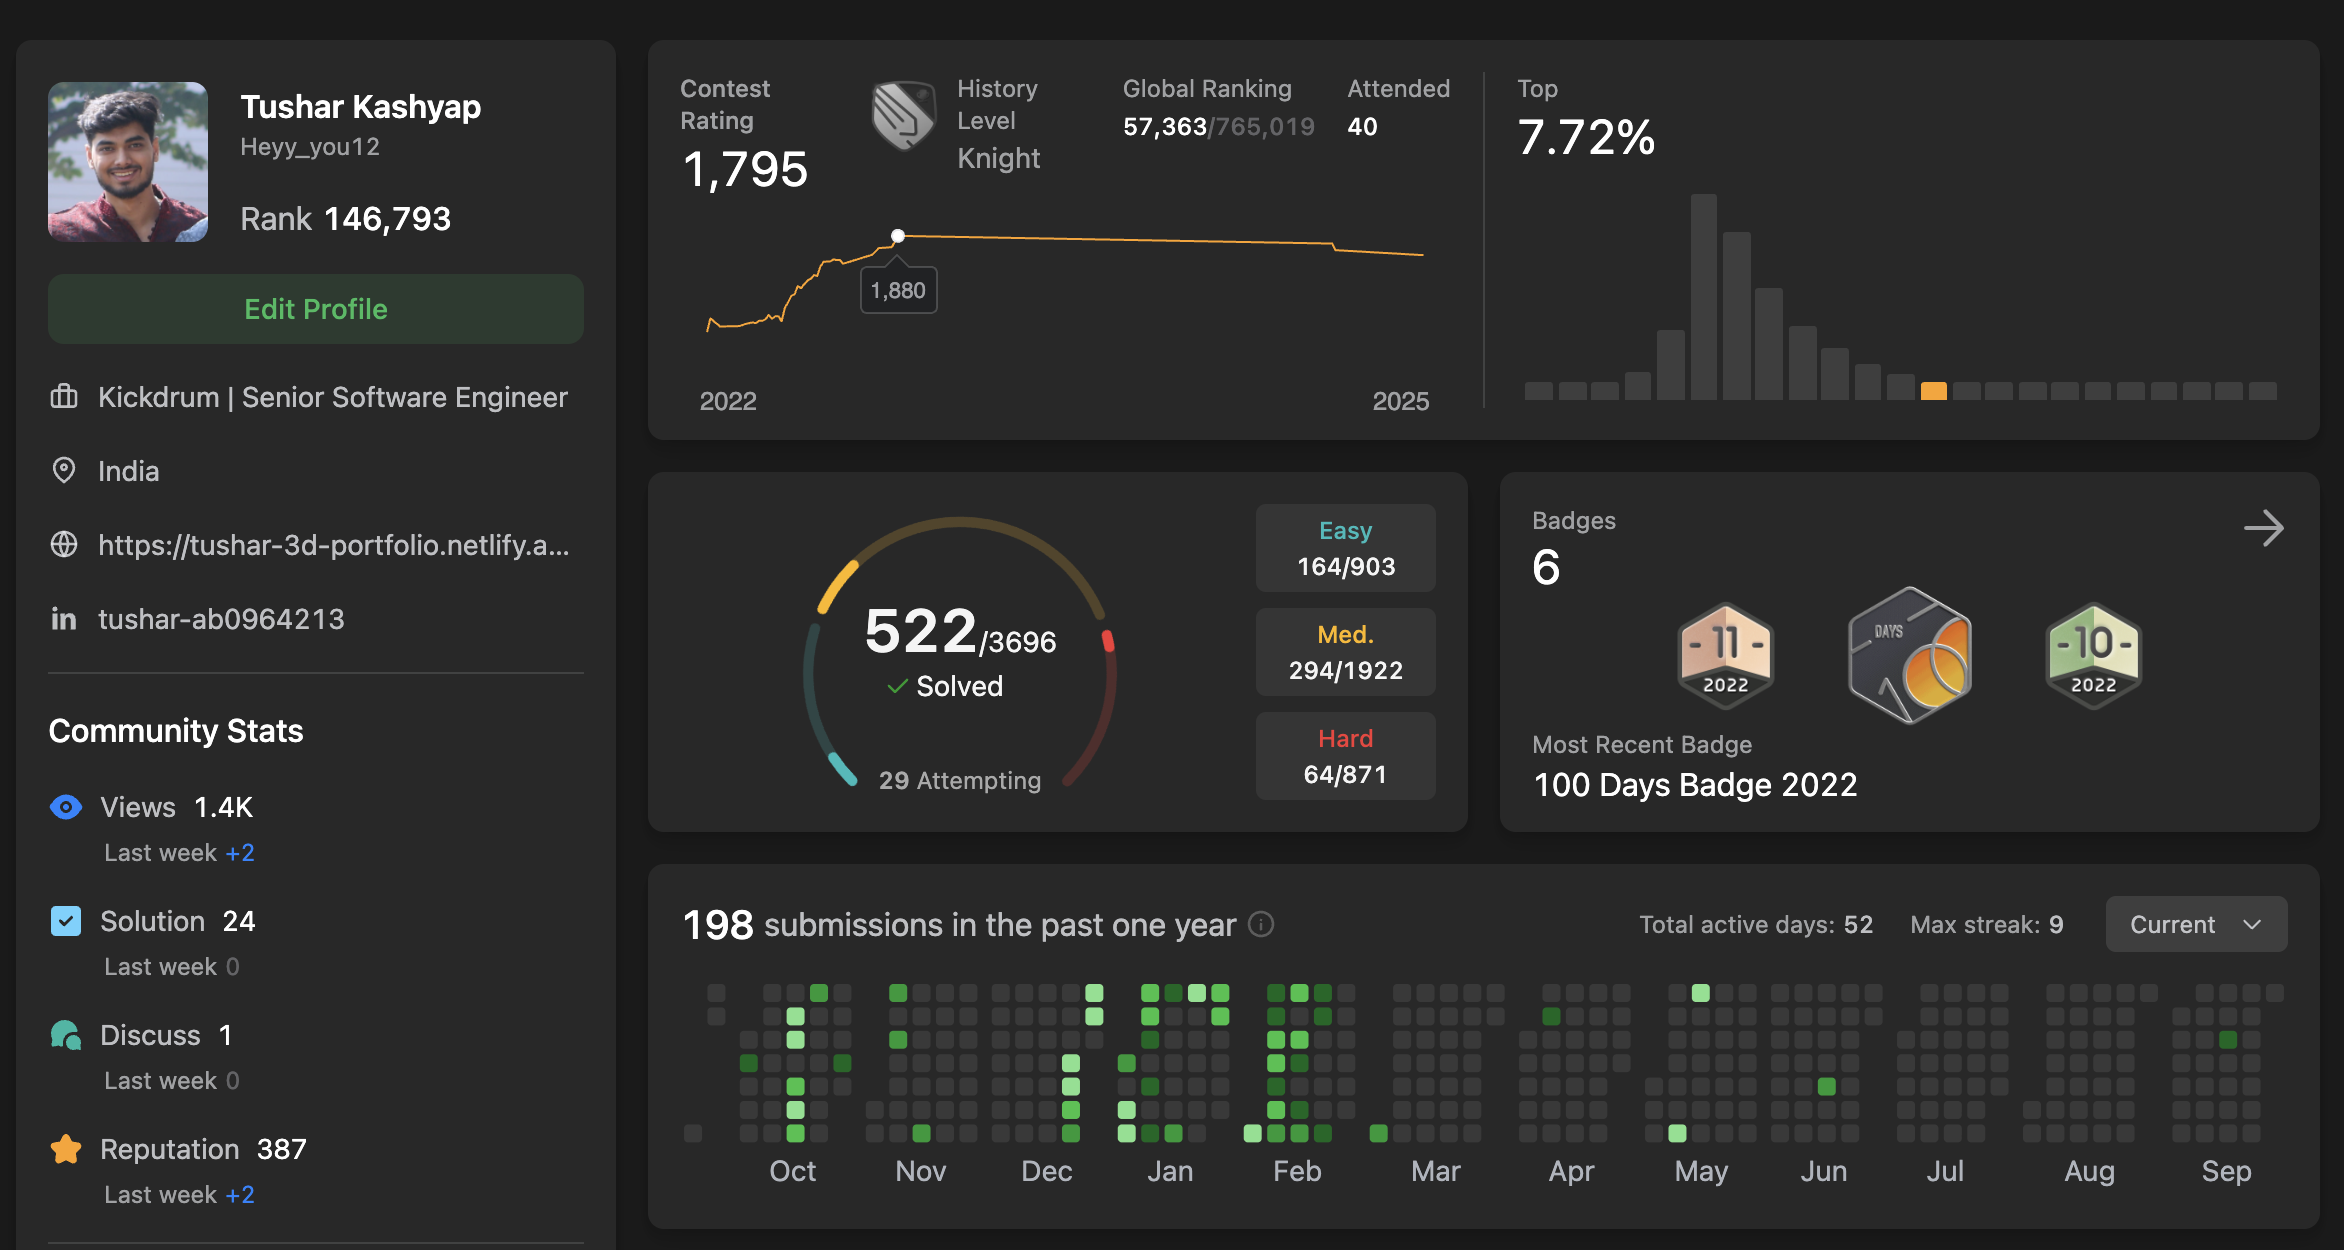
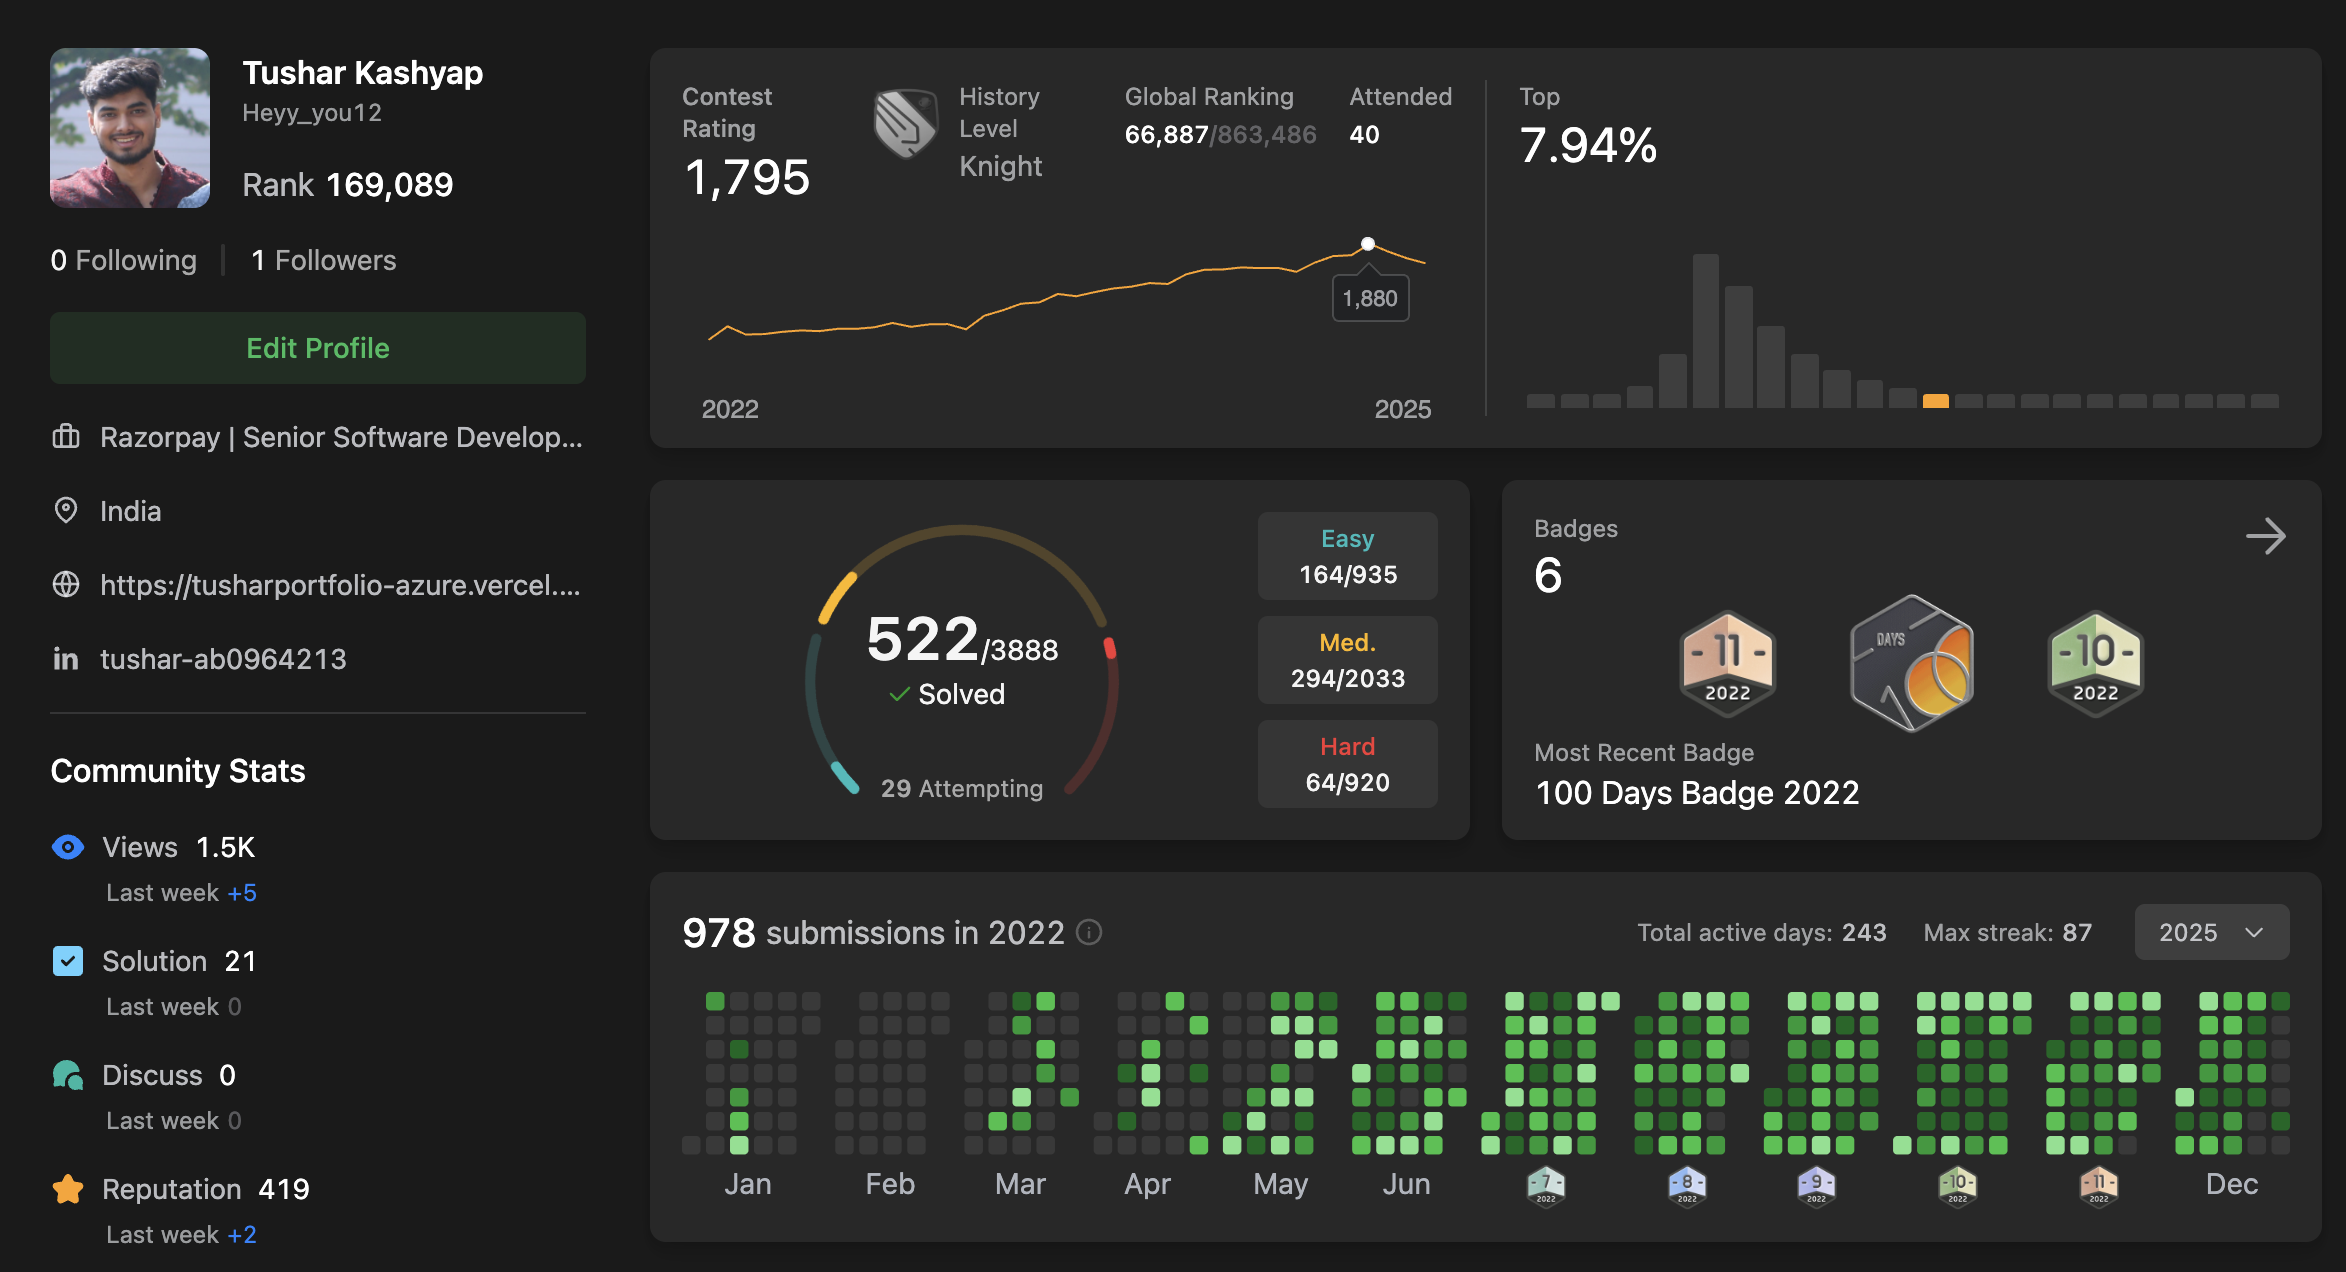
feat: add leetcode image reveal on hover on About section

diff --git a/src/components/About.jsx b/src/components/About.jsx
@@ -6,10 +6,11 @@ import leetcodeBg from '../images/leetcode_about_page_bg.png';
 
 const About = () => {
   const revealImgRef = useRef(null);
+  const [onTerminal, setOnTerminal] = React.useState(false);
 
   return (
     <div className="about-page">
-      {/* Content at the top */}
+      {/* Content at the top — NO image here */}
       <div className="about-content-top">
         <div className="content-container">
           <h1 className="about-title">
@@ -29,9 +30,9 @@ const About = () => {
         </div>
       </div>
 
-      {/* Laser Flow Section */}
+      {/* Shared container: Laser + Terminal — image spans both */}
       <div
-        className="laser-flow-section"
+        className="about-visual-area"
         onMouseMove={(e) => {
           const rect = e.currentTarget.getBoundingClientRect();
           const x = e.clientX - rect.left;
@@ -39,7 +40,7 @@ const About = () => {
           const el = revealImgRef.current;
           if (el) {
             el.style.setProperty("--mx", `${x}px`);
-            el.style.setProperty("--my", `${y + rect.height * 0.5}px`);
+            el.style.setProperty("--my", `${y}px`);
           }
         }}
         onMouseLeave={() => {
@@ -50,42 +51,46 @@ const About = () => {
           }
         }}
       >
-        <LaserFlow
-          className="laser-flow-background"
-          horizontalBeamOffset={0.0}
-          verticalBeamOffset={0.0}
-          color="#FF79C6"
-          wispDensity={1.2}
-          flowSpeed={0.4}
-          verticalSizing={2.5}
-          horizontalSizing={0.8}
-          fogIntensity={0.6}
-          fogScale={0.25}
-          wispSpeed={12.0}
-          wispIntensity={4.0}
-          flowStrength={0.3}
-          decay={1.0}
-          falloffStart={1.5}
-          fogFallSpeed={0.5}
-          mouseTiltStrength={0.02}
-        />
-
-        {/* Interactive Reveal Effect */}
+        {/* Leetcode BG — revealed by cursor, spans laser + terminal */}
         <img
           ref={revealImgRef}
           src={leetcodeBg}
           className="laser-reveal-overlay"
-          style={{
-            "--mx": "-9999px",
-            "--my": "-9999px",
-          }}
+          style={{ "--mx": "-9999px", "--my": "-9999px", opacity: onTerminal ? 0.15 : 0.45 }}
         />
-      </div>
 
-      {/* Terminal directly below laser — no gap, laser appears to fall onto it */}
-      <div className="terminal-section">
-        <div className="terminal-wrapper">
-          <Terminal />
+        {/* Laser Flow Section */}
+        <div className="laser-flow-section">
+          <LaserFlow
+            className="laser-flow-background"
+            horizontalBeamOffset={0.0}
+            verticalBeamOffset={0.0}
+            color="#FF79C6"
+            wispDensity={1.2}
+            flowSpeed={0.4}
+            verticalSizing={2.5}
+            horizontalSizing={0.8}
+            fogIntensity={0.6}
+            fogScale={0.25}
+            wispSpeed={12.0}
+            wispIntensity={4.0}
+            flowStrength={0.3}
+            decay={1.0}
+            falloffStart={1.5}
+            fogFallSpeed={0.5}
+            mouseTiltStrength={0.02}
+          />
+        </div>
+
+        {/* Terminal directly below laser */}
+        <div
+          className="terminal-section"
+          onMouseEnter={() => setOnTerminal(true)}
+          onMouseLeave={() => setOnTerminal(false)}
+        >
+          <div className="terminal-wrapper">
+            <Terminal />
+          </div>
         </div>
       </div>
     </div>

diff --git a/src/components/About.css b/src/components/About.css
@@ -72,6 +72,12 @@
   margin: 0 auto;
 }
 
+/* Shared wrapper: laser + terminal — image is absolute inside here */
+.about-visual-area {
+  position: relative;
+  background: #000000;
+}
+
 /* Laser Flow Section */
 .laser-flow-section {
   position: relative;
@@ -94,19 +100,21 @@
 
 .laser-reveal-overlay {
   position: absolute;
+  top: 0;
+  left: 0;
   width: 100%;
   height: 100%;
-  top: -50%;
-  z-index: 10;
-  /* background-image: radial-gradient(circle, #FF79C6 0%, #8B5CF6 50%, #06FFA5 100%); */
+  object-fit: contain;
+  object-position: center top;
+  z-index: 20000;
   mix-blend-mode: lighten;
-  opacity: 0.4;
+  opacity: 0.45;
   pointer-events: none;
-  -webkit-mask-image: radial-gradient(circle at var(--mx) var(--my), rgba(255,255,255,1) 0px, rgba(255,255,255,0.95) 60px, rgba(255,255,255,0.6) 120px, rgba(255,255,255,0.25) 180px, rgba(255,255,255,0) 240px);
-  mask-image: radial-gradient(circle at var(--mx) var(--my), rgba(255,255,255,1) 0px, rgba(255,255,255,0.95) 60px, rgba(255,255,255,0.6) 120px, rgba(255,255,255,0.25) 180px, rgba(255,255,255,0) 240px);
+  -webkit-mask-image: radial-gradient(circle at var(--mx) var(--my), rgba(255,255,255,1) 0px, rgba(255,255,255,0.95) 80px, rgba(255,255,255,0.6) 160px, rgba(255,255,255,0.2) 260px, rgba(255,255,255,0) 340px);
+  mask-image: radial-gradient(circle at var(--mx) var(--my), rgba(255,255,255,1) 0px, rgba(255,255,255,0.95) 80px, rgba(255,255,255,0.6) 160px, rgba(255,255,255,0.2) 260px, rgba(255,255,255,0) 340px);
   -webkit-mask-repeat: no-repeat;
   mask-repeat: no-repeat;
-  transition: opacity 0.3s ease;
+  transition: opacity 0.6s ease;
 }
 
 .hero-background {
